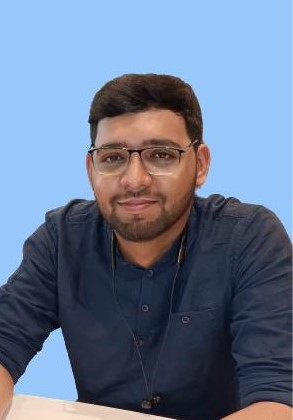
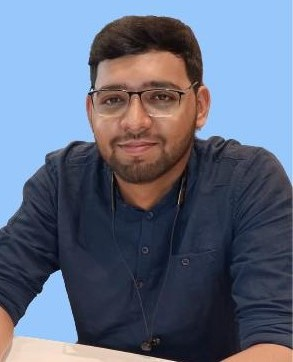
pic update

diff --git a/index.html b/index.html
@@ -692,18 +692,45 @@
         }
         
         .member-img {
-            width: 100%;
-            height: 250px;
-            position: relative;
-            overflow: hidden;
-        }
+    width: 100%;
+    height: 250px; /* Fixed height for consistency */
+    position: relative;
+    overflow: hidden;
+    display: flex;
+    align-items: flex-start; /* Align to top instead of center */
+    justify-content: center;
+    background: var(--card-bg);
+}
 
-        .member-img img {
-            width: 100%;
-            height: 100%;
-            object-fit: cover;
-            transition: transform 0.5s ease;
-        }
+.member-img img {
+    width: 100%;
+    height: 100%;
+    object-fit: cover; /* Cover ensures full container fill */
+    object-position: center top; /* Position from center-top, crops bottom naturally */
+    transition: transform 0.5s ease;
+    display: block;
+}
+
+/* Alternative with slightly more height for better proportions */
+.member-img-alt {
+    width: 100%;
+    height: 280px; /* Consistent height */
+    position: relative;
+    overflow: hidden;
+    display: flex;
+    align-items: flex-start; /* Align to top */
+    justify-content: center;
+    background: var(--card-bg);
+}
+
+.member-img-alt img {
+    width: 100%;
+    height: 100%;
+    object-fit: cover; /* Fills container completely */
+    object-position: center 15%; /* Positions image slightly from top, crops mainly from bottom */
+    transition: transform 0.5s ease;
+    display: block;
+}
 
         .team-member:hover .member-img img {
             transform: scale(1.05);
